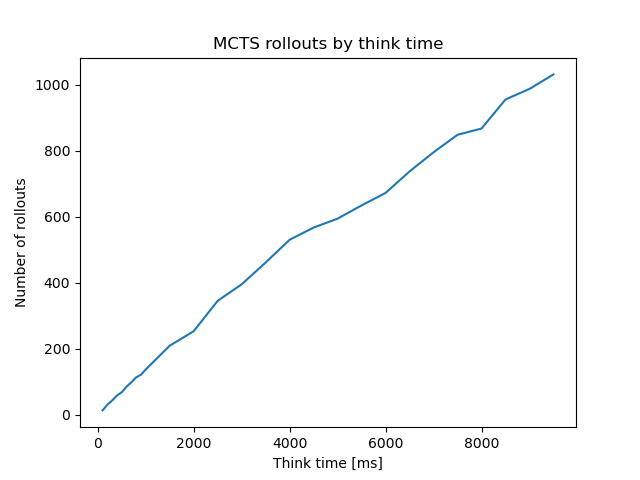
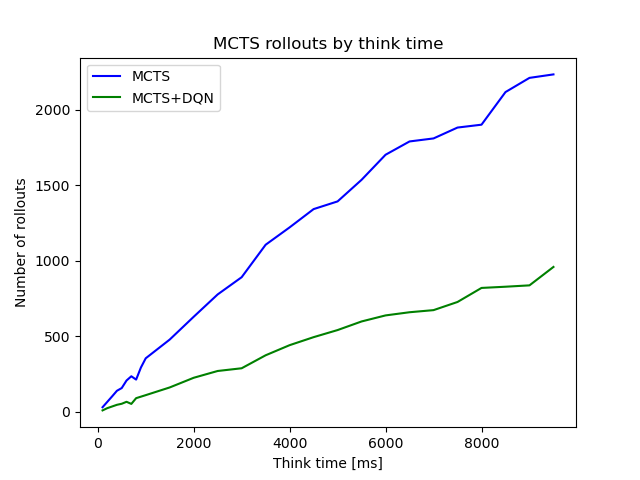
[no lint] fix timed_mcts_q_count

diff --git a/timed_tests/test_mcts.py b/timed_tests/test_mcts.py
@@ -43,7 +43,7 @@ class TestMCTS(unittest.TestCase):
             root = BombermanNode(initial_state, np.zeros(len(agents)), initial_order, "")
             n_iter = 0
             start = time.perf_counter_ns()
-            while time.perf_counter_ns() - start < (time_to_think*1e6):
+            while time.perf_counter_ns() - start < time_to_think:
                 mcts.do_rollout(root)
                 n_iter += 1
             return n_iter
@@ -65,18 +65,19 @@ class TestMCTS(unittest.TestCase):
 
             return n_iter
 
-        t = [i for i in range(100, 1000, 100)]+[i for i in range(1000, 5000, 1000)]
+        t = [i for i in range(100, 1000, 100)]+[i for i in range(1000, 10000, 500)]
         iterations = np.zeros(len(t))
         iterations_q = np.zeros(len(t))
         for i in range(len(t)):
-            #iterations[i] = count_mcts_iterations(t[i])
-            iterations_q[i] = count_mcts_iterations_q_net(t[i])
+            iterations[i] = count_mcts_iterations(t[i]*1e6)
+            iterations_q[i] = count_mcts_iterations_q_net(t[i]*1e6)
 
-        #plt.plot(t, iterations, color="blue")
-        plt.plot(t, iterations_q, color="green")
+        plt.plot(t, iterations, color="blue", label='MCTS')
+        plt.plot(t, iterations_q, color="green", label='MCTS+DQN')
         plt.title("MCTS rollouts by think time")
         plt.xlabel("Think time [ms]")
         plt.ylabel("Number of rollouts")
+        plt.legend(loc="upper left")
         plt.savefig("mcts_rollouts_by_t.png")
         # add line at 500ms if executed on RYZEN
         # add number of rollouts in DQN and value
